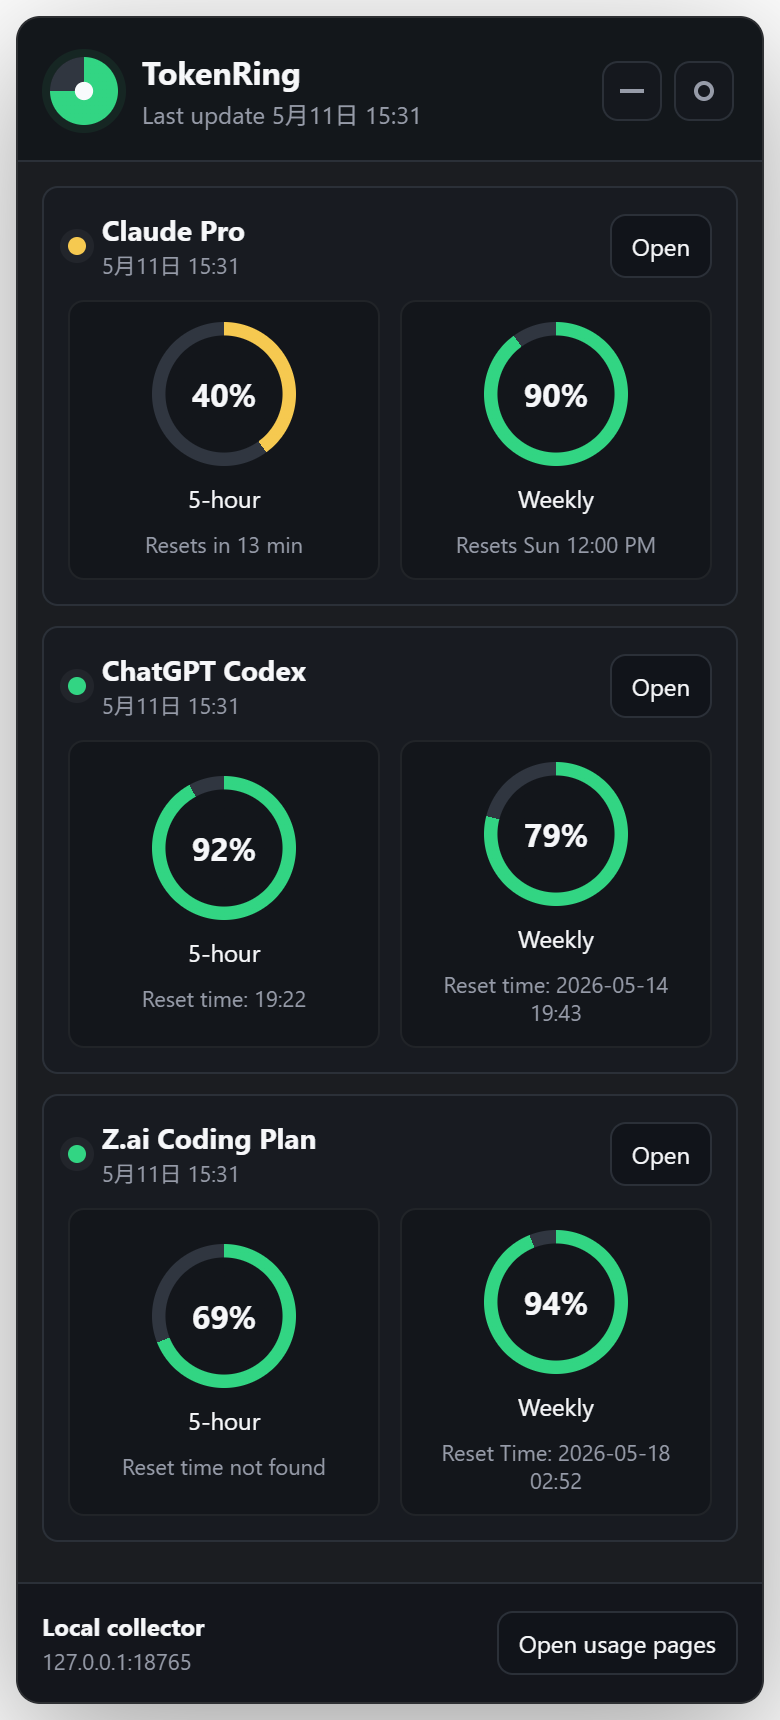
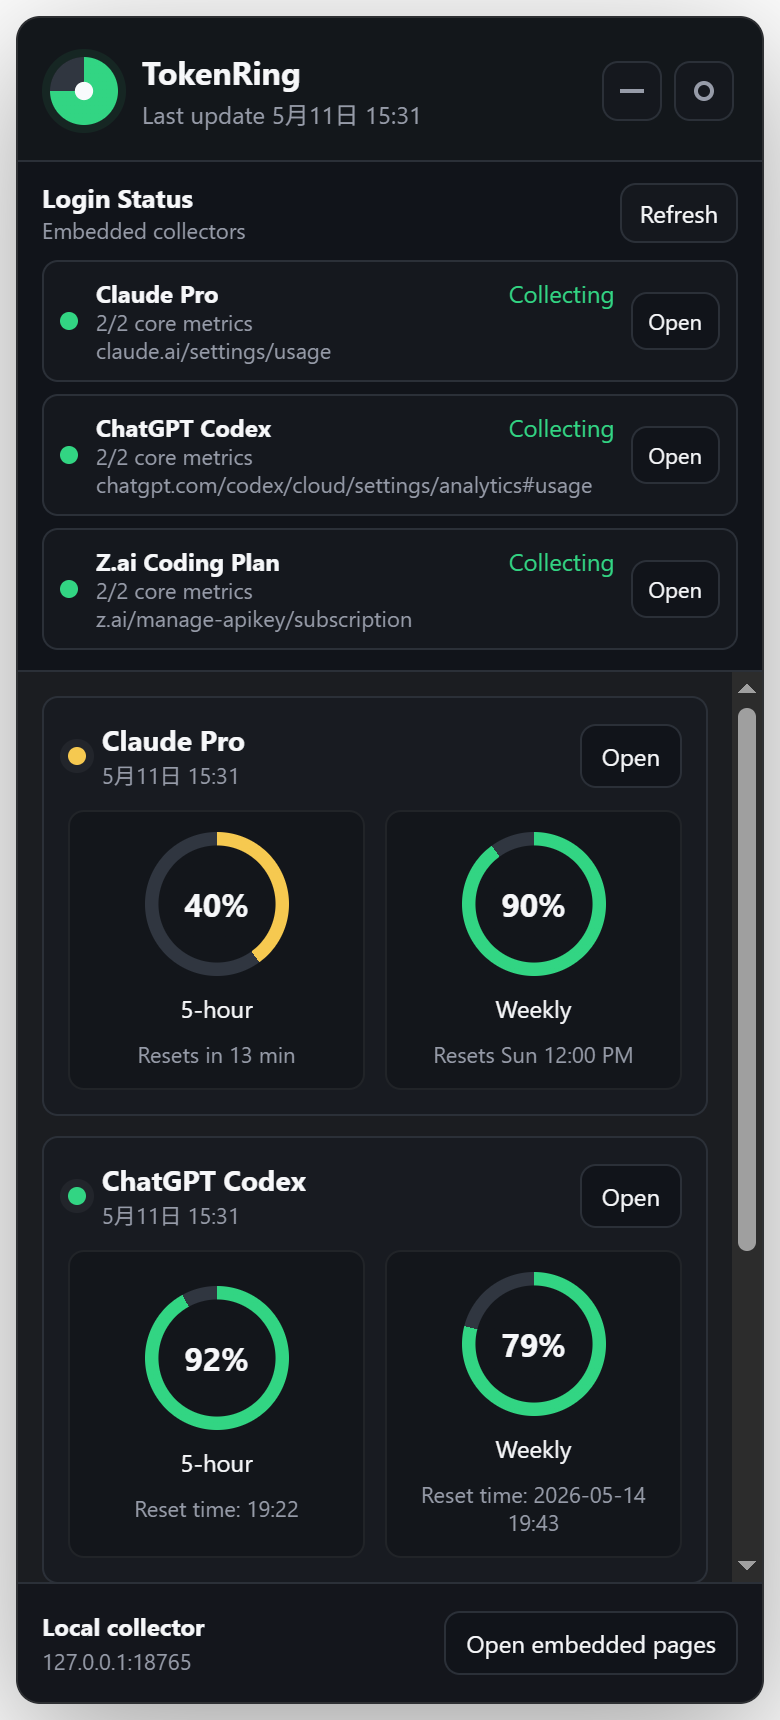
Add login status panel

diff --git a/src/renderer/renderer.js b/src/renderer/renderer.js
@@ -5,6 +5,7 @@ const PROVIDERS = [
 ];
 
 const providerList = document.getElementById("providerList");
+const loginStatusList = document.getElementById("loginStatusList");
 const lastUpdated = document.getElementById("lastUpdated");
 
 function colorForRemaining(remainingPct) {
@@ -81,6 +82,92 @@ function renderProvider(provider, record) {
   `;
 }
 
+function loginStateFor(provider, record) {
+  if (!record) {
+    return {
+      tone: "idle",
+      text: "Not checked",
+      detail: "Open embedded page",
+      page: provider.url
+    };
+  }
+
+  const source = record.sourceUrl || provider.url;
+  const metrics = visibleMetrics(record);
+  const lowerSource = source.toLowerCase();
+  const isAuthPage = /login|signin|auth|oauth|authorize|account/.test(lowerSource);
+
+  if (record.status === "collector_error") {
+    return {
+      tone: "bad",
+      text: "Collector error",
+      detail: record.message || "Open page to inspect",
+      page: source
+    };
+  }
+
+  if (isAuthPage) {
+    return {
+      tone: "warn",
+      text: "Login needed",
+      detail: "Embedded page is on an auth flow",
+      page: source
+    };
+  }
+
+  if ((record.status === "ok" || !record.status) && metrics.length) {
+    return {
+      tone: "good",
+      text: "Collecting",
+      detail: `${metrics.length}/2 core metrics`,
+      page: source
+    };
+  }
+
+  if (record.status === "no_metrics") {
+    return {
+      tone: "warn",
+      text: "Needs attention",
+      detail: "Page loaded, no core metric matched",
+      page: source
+    };
+  }
+
+  return {
+    tone: "idle",
+    text: "Checking",
+    detail: record.message || "Waiting for collector",
+    page: source
+  };
+}
+
+function compactUrl(value) {
+  try {
+    const url = new URL(value);
+    return `${url.host}${url.pathname}${url.hash}`;
+  } catch {
+    return value || "Unknown page";
+  }
+}
+
+function renderLoginRow(provider, record) {
+  const state = loginStateFor(provider, record);
+  return `
+    <div class="login-row">
+      <span class="login-dot ${state.tone}"></span>
+      <div class="login-info">
+        <div class="login-title">
+          <strong>${escapeHtml(provider.name)}</strong>
+          <span class="${state.tone}">${escapeHtml(state.text)}</span>
+        </div>
+        <div class="login-detail">${escapeHtml(state.detail)}</div>
+        <div class="login-page">${escapeHtml(compactUrl(state.page))}</div>
+      </div>
+      <button class="open-btn small" data-provider="${provider.id}">Open</button>
+    </div>
+  `;
+}
+
 function escapeHtml(value) {
   return String(value)
     .replaceAll("&", "&amp;")
@@ -92,6 +179,7 @@ function escapeHtml(value) {
 
 function render(state) {
   const records = state?.providers || {};
+  loginStatusList.innerHTML = PROVIDERS.map((provider) => renderLoginRow(provider, records[provider.id])).join("");
   providerList.innerHTML = PROVIDERS.map((provider) => renderProvider(provider, records[provider.id])).join("");
   lastUpdated.textContent = state?.updatedAt ? `Last update ${formatTime(state.updatedAt)}` : "Open usage pages to collect data";
 }
@@ -105,16 +193,24 @@ async function refresh() {
   }
 }
 
-providerList.addEventListener("click", (event) => {
+function handleProviderClick(event) {
   const button = event.target.closest("[data-provider]");
   if (!button) return;
   window.tokenRing.openProvider(button.dataset.provider);
-});
+}
+
+providerList.addEventListener("click", handleProviderClick);
+loginStatusList.addEventListener("click", handleProviderClick);
 
 document.getElementById("openAllBtn").addEventListener("click", () => {
   for (const provider of PROVIDERS) {
     window.tokenRing.openProvider(provider.id);
   }
+});
+
+document.getElementById("refreshCollectorsBtn").addEventListener("click", async () => {
+  const state = await window.tokenRing.refreshCollectors();
+  render(state);
 });
 
 document.getElementById("minimizeBtn").addEventListener("click", () => {

diff --git a/src/renderer/styles.css b/src/renderer/styles.css
@@ -85,6 +85,13 @@ h1 {
   font-weight: 700;
 }
 
+h2 {
+  margin: 0;
+  font-size: 13px;
+  line-height: 16px;
+  font-weight: 700;
+}
+
 .title p {
   margin-top: 2px;
   color: var(--muted);
@@ -127,6 +134,120 @@ h1 {
   height: 10px;
   border: 2px solid var(--muted);
   border-radius: 50%;
+}
+
+.login-panel {
+  padding: 10px 12px;
+  border-bottom: 1px solid var(--border);
+  background: #11141a;
+}
+
+.panel-head {
+  display: flex;
+  justify-content: space-between;
+  align-items: center;
+  gap: 12px;
+  margin-bottom: 8px;
+}
+
+.panel-head p {
+  color: var(--muted);
+  font-size: 11px;
+  line-height: 14px;
+  margin-top: 1px;
+}
+
+.panel-head button {
+  border: 1px solid var(--border);
+  border-radius: 8px;
+  padding: 6px 9px;
+  background: #15181e;
+  color: var(--text);
+  cursor: pointer;
+  font-size: 12px;
+}
+
+.panel-head button:hover {
+  background: var(--panel-strong);
+}
+
+.login-list {
+  display: flex;
+  flex-direction: column;
+  gap: 6px;
+}
+
+.login-row {
+  display: grid;
+  grid-template-columns: 10px minmax(0, 1fr) auto;
+  align-items: center;
+  gap: 8px;
+  min-height: 50px;
+  padding: 8px;
+  border: 1px solid var(--border);
+  border-radius: 8px;
+  background: #15181e;
+}
+
+.login-dot {
+  width: 9px;
+  height: 9px;
+  border-radius: 50%;
+  background: var(--muted);
+}
+
+.login-dot.good,
+.login-title .good {
+  color: var(--green);
+}
+
+.login-dot.good {
+  background: var(--green);
+}
+
+.login-dot.warn,
+.login-title .warn {
+  color: var(--yellow);
+}
+
+.login-dot.warn {
+  background: var(--yellow);
+}
+
+.login-dot.bad,
+.login-title .bad {
+  color: var(--red);
+}
+
+.login-dot.bad {
+  background: var(--red);
+}
+
+.login-info {
+  min-width: 0;
+}
+
+.login-title {
+  display: flex;
+  justify-content: space-between;
+  gap: 10px;
+  font-size: 12px;
+  line-height: 15px;
+}
+
+.login-title span {
+  white-space: nowrap;
+  color: var(--muted);
+}
+
+.login-detail,
+.login-page {
+  color: var(--muted);
+  font-size: 11px;
+  line-height: 14px;
+  white-space: nowrap;
+  overflow: hidden;
+  text-overflow: ellipsis;
 }
 
 .provider-list {
@@ -192,6 +313,11 @@ h1 {
   color: var(--text);
   cursor: pointer;
   font-size: 12px;
+}
+
+.open-btn.small {
+  padding: 6px 8px;
+  font-size: 11px;
 }
 
 .open-btn:hover,

diff --git a/src/main.js b/src/main.js
@@ -255,6 +255,11 @@ ipcMain.handle("open-provider", async (_event, provider) => {
 
 ipcMain.handle("get-state", async () => state);
 
+ipcMain.handle("refresh-collectors", async () => {
+  await collectAllEmbeddedProviders();
+  return state;
+});
+
 ipcMain.handle("window-action", async (_event, action) => {
   if (!mainWindow) return;
   if (action === "hide") mainWindow.hide();
@@ -361,7 +366,11 @@ function openCollectorWindow(provider) {
 }
 
 async function collectAllEmbeddedProviders() {
-  await Promise.allSettled(Object.keys(PROVIDER_URLS).map((provider) => collectEmbeddedProvider(provider)));
+  const results = await Promise.allSettled(Object.keys(PROVIDER_URLS).map((provider) => collectEmbeddedProvider(provider)));
+  if (mainWindow && !mainWindow.isDestroyed()) {
+    mainWindow.webContents.send("usage-updated", state);
+  }
+  return results;
 }
 
 async function collectEmbeddedProvider(provider) {

diff --git a/src/renderer/index.html b/src/renderer/index.html
@@ -26,6 +26,17 @@
         </div>
       </header>
 
+      <section class="login-panel">
+        <div class="panel-head">
+          <div>
+            <h2>Login Status</h2>
+            <p>Embedded collectors</p>
+          </div>
+          <button id="refreshCollectorsBtn">Refresh</button>
+        </div>
+        <div class="login-list" id="loginStatusList"></div>
+      </section>
+
       <section class="provider-list" id="providerList"></section>
 
       <footer class="footer">
@@ -33,7 +44,7 @@
           <strong>Local collector</strong>
           <span>127.0.0.1:18765</span>
         </div>
-        <button id="openAllBtn">Open usage pages</button>
+        <button id="openAllBtn">Open embedded pages</button>
       </footer>
     </main>
 

diff --git a/src/preload.js b/src/preload.js
@@ -3,6 +3,7 @@ const { contextBridge, ipcRenderer } = require("electron");
 contextBridge.exposeInMainWorld("tokenRing", {
   getState: () => ipcRenderer.invoke("get-state"),
   openProvider: (provider) => ipcRenderer.invoke("open-provider", provider),
+  refreshCollectors: () => ipcRenderer.invoke("refresh-collectors"),
   windowAction: (action) => ipcRenderer.invoke("window-action", action),
   onUsageUpdated: (callback) => {
     ipcRenderer.on("usage-updated", (_event, state) => callback(state));

diff --git a/README.md b/README.md
@@ -55,6 +55,7 @@ The extension also refreshes any already-open usage tabs about once per minute. 
 ## Embedded Collection
 
 The embedded collectors refresh about once per minute while TokenRing is running. Use the tray menu item **Refresh Embedded Collectors** to force an immediate refresh.
+The **Login Status** panel shows whether each embedded collector is collecting normally, needs login, or needs attention. Use the row-level `Open` button to reopen a provider's embedded login page.
 
 First-time setup:
 
@@ -141,6 +142,7 @@ npm start
 ### 内置采集器
 
 内置采集器会在 TokenRing 运行时大约每 1 分钟刷新一次。你也可以在托盘菜单中点击 `Refresh Embedded Collectors` 立即刷新。
+主界面的 `Login Status` 区域会显示每个平台的登录/采集状态，包括是否正在正常采集、是否需要重新登录、最近访问的页面。点击每一行的 `Open` 可以重新打开对应平台的内置登录窗口。
 
 首次使用建议：
 
